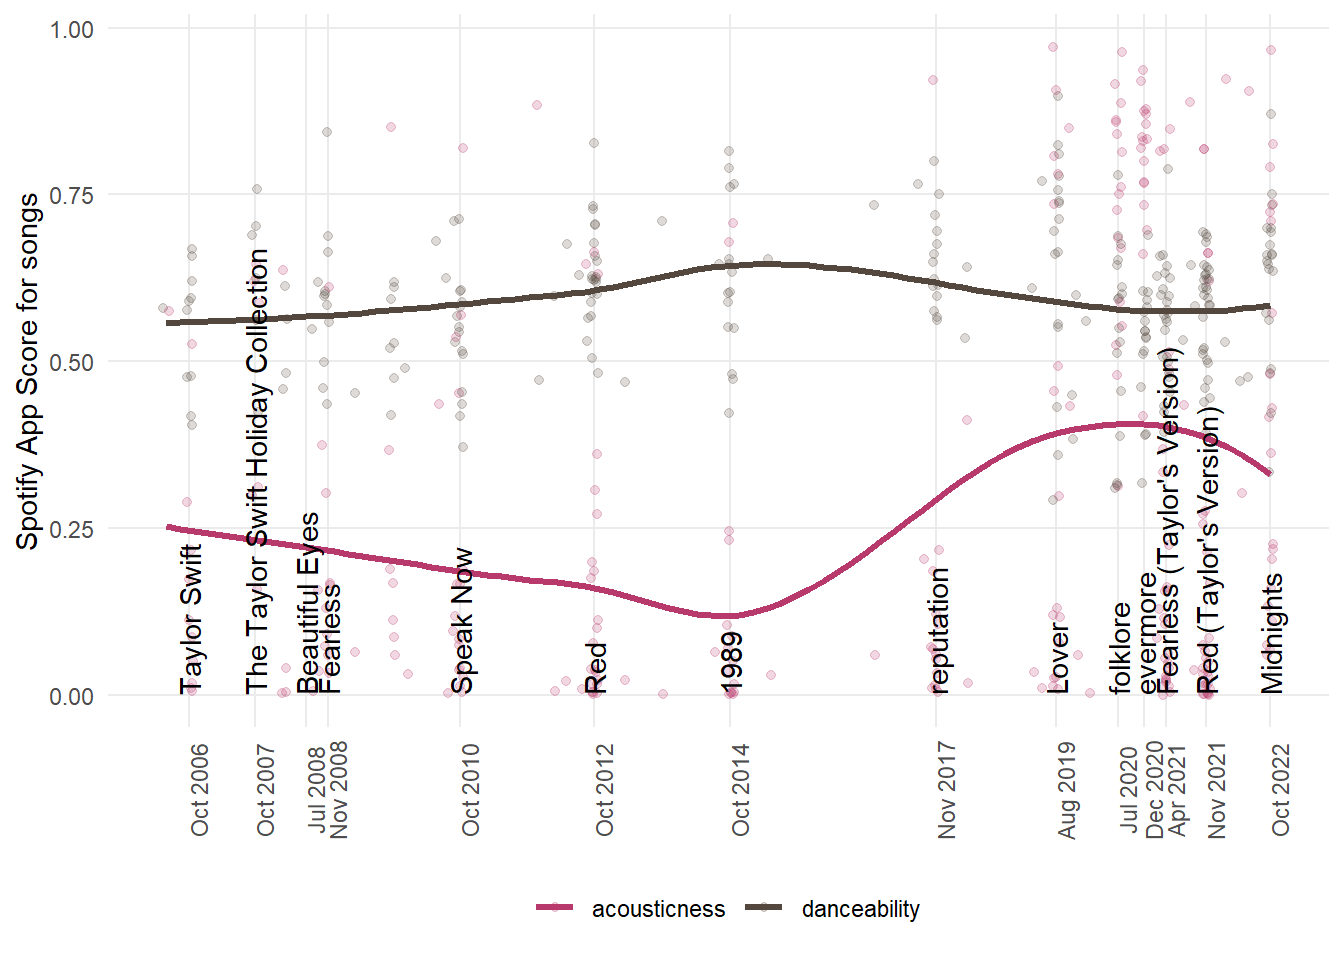
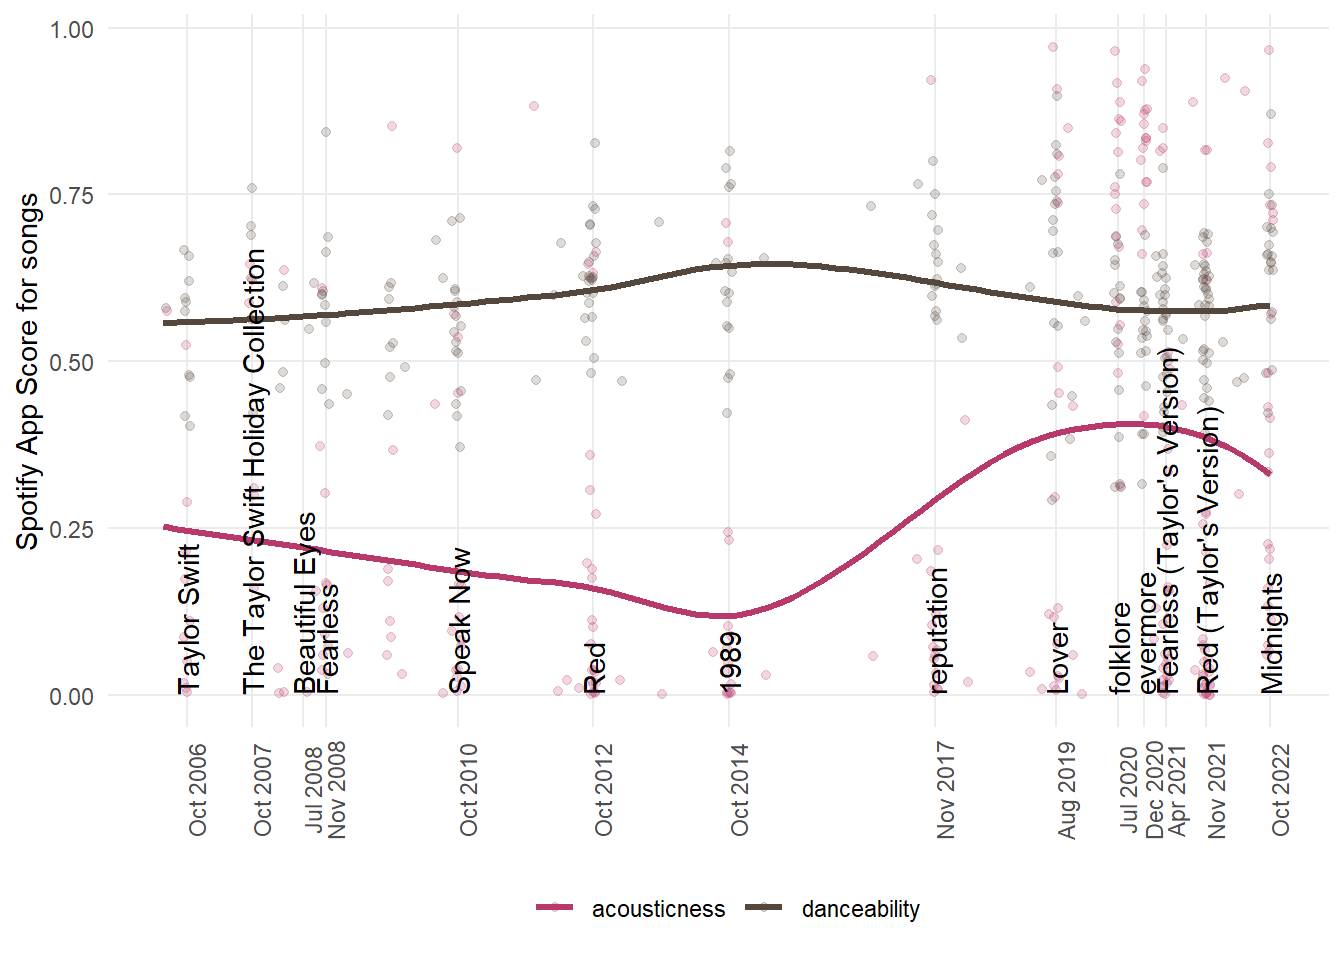
Update taylor swift image

diff --git a/docs/projects/taylor_swift.html b/docs/projects/taylor_swift.html
@@ -172,7 +172,7 @@ pre > code.sourceCode > span > a:first-child::before { text-decoration: underlin
   <ul>
   <li><a href="#step-1-data-import" id="toc-step-1-data-import" class="nav-link active" data-scroll-target="#step-1-data-import">Step 1: Data Import</a></li>
   <li><a href="#step-2-some-exploratory-data-analysis" id="toc-step-2-some-exploratory-data-analysis" class="nav-link" data-scroll-target="#step-2-some-exploratory-data-analysis">Step 2: Some Exploratory Data Analysis</a></li>
-  <li><a href="#creating-an-animated-plot" id="toc-creating-an-animated-plot" class="nav-link" data-scroll-target="#creating-an-animated-plot">Creating an animated plot</a></li>
+  <li><a href="#step-3-creating-an-animated-plot" id="toc-step-3-creating-an-animated-plot" class="nav-link" data-scroll-target="#step-3-creating-an-animated-plot">Step 3: Creating an animated plot</a></li>
   </ul>
 <div class="toc-actions"><div><i class="bi bi-github"></i></div><div class="action-links"><p><a href="https://github.com/Aditya-Dahiya/sessions_presentations/edit/main/projects/taylor_swift.qmd" class="toc-action">Edit this page</a></p><p><a href="https://github.com/Aditya-Dahiya/sessions_presentations/issues/new" class="toc-action">Report an issue</a></p></div></div></nav>
     </div>
@@ -379,8 +379,8 @@ pre > code.sourceCode > span > a:first-child::before { text-decoration: underlin
 </div>
 </div>
 </section>
-<section id="creating-an-animated-plot" class="level2">
-<h2 class="anchored" data-anchor-id="creating-an-animated-plot">Creating an animated plot</h2>
+<section id="step-3-creating-an-animated-plot" class="level2">
+<h2 class="anchored" data-anchor-id="step-3-creating-an-animated-plot">Step 3: Creating an animated plot</h2>
 <div class="cell">
 <div class="sourceCode cell-code" id="cb11"><pre class="sourceCode r code-with-copy"><code class="sourceCode r"><span id="cb11-1"><a href="#cb11-1" aria-hidden="true" tabindex="-1"></a><span class="co"># creating a loess predictor variable</span></span>
 <span id="cb11-2"><a href="#cb11-2" aria-hidden="true" tabindex="-1"></a>df <span class="ot">&lt;-</span> taylor_all_songs <span class="sc">|&gt;</span> </span>

diff --git a/docs/projects.html b/docs/projects.html
@@ -196,9 +196,9 @@ ul.task-list li input[type="checkbox"] {
 
 <div class="quarto-listing quarto-listing-container-default" id="listing-listing">
 <div class="list quarto-listing-default">
-<div class="quarto-post image-right" data-index="0" data-listing-date-sort="1697567400000" data-listing-file-modified-sort="1697645709429" data-listing-date-modified-sort="NaN" data-listing-reading-time-sort="12">
+<div class="quarto-post image-right" data-index="0" data-listing-date-sort="1697567400000" data-listing-file-modified-sort="1697646337813" data-listing-date-modified-sort="NaN" data-listing-reading-time-sort="12">
 <div class="thumbnail">
-<p><a href="./projects/taylor_swift.html"> <img src="./projects/haunted.jpg" class="thumbnail-image"> </a></p>
+<p><a href="./projects/taylor_swift.html"> <img src="./projects/taylor_swift.png" class="thumbnail-image"> </a></p>
 </div>
 <div class="body">
 <a href="./projects/taylor_swift.html">
